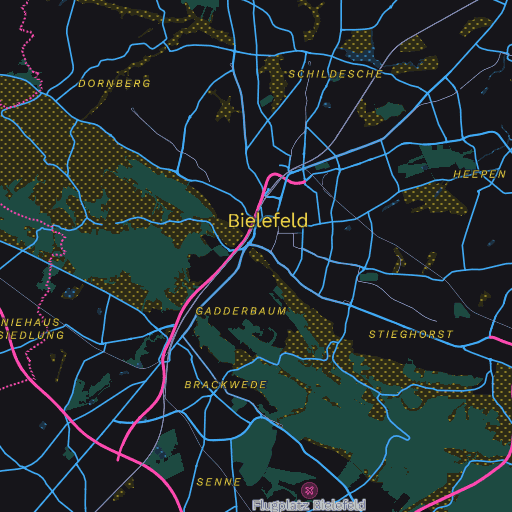
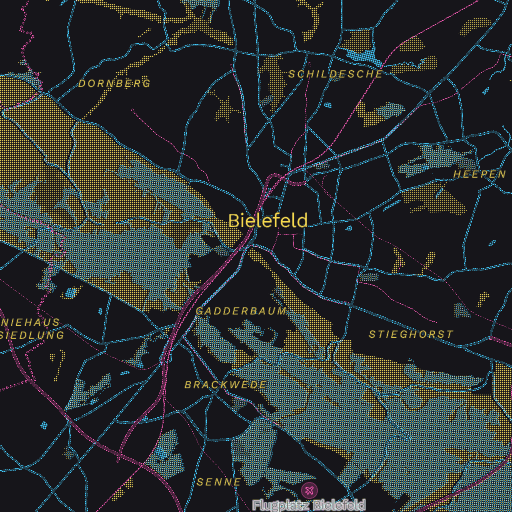
Siebdruck: echtes CMYK-Druckraster als Pixel-Nachbearbeitung, Straßen aus feinen Punkten
- halftone(): Farbzerlegung nach den echten Druckfarben, Raster je Platte unter 0°/15°/45°/75° (Rosetten),
  flächentreue Punkte, Passer-Versatz 1 px, Tinte multipliziert bzw. Leuchtfarben auf Schwarz (mode = "light")
- Volltöne (Straßen, Wege, Bahn) im feinen Raster aus getrennten Punkten
- Siebdruck/Nacht: flache Farben als Mischungen der Druckfarben, Beschriftung scharf obenauf

diff --git a/make-tiles.py b/make-tiles.py
@@ -1113,9 +1113,10 @@ def halftone(img, ox, oy, k, cfg, z=17):
     in Druckfarben zerlegt, jede Farbe als eigenes Punktraster unter ihrem Winkel (Gelb 0°, Cyan 15°, Schwarz 45°,
     Magenta 75° wie im Offsetdruck, daher Rosetten), Punktgröße nach Farbmenge, volle Fläche ab ~100 % (Straßen in
     kräftigen Farben bleiben durchgehend), Platten je um offset Weltpixel versetzt (Passer), übereinander gedruckt.
-    mode = "cmyk": Tinte auf Papier (paper), multipliziert. mode = "light": Leuchtfarben auf schwarzem Karton, die
-    Platten sind Rot/Grün/Blau-Anteile und hellen auf (screen). Raster weltfest (ox/oy wie watercolor()), nahtlos;
-    Rasterweite pitch (Weltpixel bei z17), je Zoomstufe darunter pitch_step feiner."""
+    mode = "cmyk": Tinte auf Papier (paper), multipliziert. mode = "light": drei Leuchtfarben auf schwarzem Karton,
+    hellen auf (screen). inks = { c, m, y[, k] } ersetzt die Druckfarben. Raster weltfest (ox/oy wie watercolor()), nahtlos;
+    Rasterweite pitch (Weltpixel bei z17), je Zoomstufe darunter pitch_step feiner. Volltöne (eine Platte > fine_from)
+    im feinen Raster (fine × pitch, Farbmenge höchstens fine_amount), damit auch Straßen aus Punkten bestehen."""
     import numpy as np
     from scipy import ndimage
     h, w, _ = img.shape
@@ -1125,28 +1126,42 @@ def halftone(img, ox, oy, k, cfg, z=17):
     pitch = max(2, cfg.get("pitch", 6) + cfg.get("pitch_step", 1) * ((z or 17) - 17))
     light = cfg.get("mode", "cmyk") == "light"
     paper = hexc(cfg.get("paper", "#000000" if light else "#ffffff"))
-    if light:  # Lichtanteile über schwarzem Grund
-        plates = {"r": img[..., 0], "g": img[..., 1], "b": img[..., 2]}
-    else:      # Tinte = was dem Papier fehlt; Schwarz aus dem gemeinsamen Anteil (Unterfarbenentfernung)
-        cmy = np.clip(1 - img / paper, 0, 1)
-        kk = cmy.min(-1) * cfg.get("black", 1)
-        cmy = (cmy - kk[..., None]) / np.maximum(1 - kk[..., None], 1e-3)
-        plates = {"c": cmy[..., 0], "m": cmy[..., 1], "y": cmy[..., 2], "k": kk}
-    inks = {"c": "#00a3e0", "m": "#ff3fa4", "y": "#ffe500", "k": "#231f20",
-            "r": "#ff3b5c", "g": "#3dff8a", "b": "#3f8cff", **cfg.get("inks", {})}
-    angle = {"y": 0, "c": 15, "k": 45, "m": 75, "b": 0, "r": 15, "g": 75, **cfg.get("angles", {})}
-    off = {"c": (1, 0), "m": (0, 1), "y": (-1, 0), "k": (0, 0), "r": (1, 0), "g": (0, 1), "b": (-1, 0)}
-    off = {c: [v * cfg.get("offset", 1) for v in o] for c, o in off.items()}
+    names = ("c", "m", "y")
+    inks = {**({"c": "#2ec8ff", "m": "#ff48b0", "y": "#ffe14d"} if light else
+               {"c": "#00a3e0", "m": "#ff3fa4", "y": "#ffe500", "k": "#231f20"}), **cfg.get("inks", {})}
+    ink = {c: hexc(v) for c, v in inks.items()}
+    # Farbmengen je Platte aus den echten Druckfarben (3×3-Gleichung je Pixel): Tinte in Dichten (−ln, Papier = 0),
+    # Leuchtfarbe linear über Schwarz; so wird eine Fläche in Druckfarbe nur von ihrer eigenen Platte gedruckt
+    if light:
+        M, rhs = np.stack([ink[c] - paper for c in names], 1), img - paper
+    else:
+        dens = lambda v: -np.log(np.clip(v / paper, 1e-3, 1))
+        M, rhs = np.stack([dens(ink[c]) for c in names], 1), dens(img)
+    amt = np.clip(rhs @ np.linalg.inv(M).T, 0, 1.2)
+    plates = {c: amt[..., n] for n, c in enumerate(names)}
+    if not light:  # Schwarz übernimmt den gemeinsamen Anteil (Unterfarbenentfernung)
+        kk = amt.min(-1) * cfg.get("black", 1)
+        plates = {c: v - kk for c, v in plates.items()} | {"k": kk}
+    angle = {"y": 0, "c": 15, "k": 45, "m": 75, **cfg.get("angles", {})}
+    o = cfg.get("offset", 1)
+    off = {"c": (o, 0), "m": (0, o), "y": (-o, 0), "k": (0, 0)}
+    # Volltöne (Straßen, Wege, Bahn: eine Platte fast voll) im feinen Raster aus kleinen, getrennten Punkten (Nutzerwunsch
+    # 2026-11-26), sonst wären sie durchgehende Flächen; hellere Flächen im groben Raster
+    fine = (amt.max(-1) > cfg.get("fine_from", .8)).astype(float)
+    fine = ndimage.gaussian_filter(fine, .5 * k) > .5   # Kanten der Linien glätten
     out = np.broadcast_to(paper, img.shape).copy()
     for c, val in plates.items():
         val = ndimage.shift(val, (off[c][1] * k, off[c][0] * k), order=1, mode="nearest")   # Passer-Versatz
+        fn = ndimage.shift(fine.astype(float), (off[c][1] * k, off[c][0] * k), order=0, mode="nearest") > .5
+        val = np.where(fn, np.minimum(val, cfg.get("fine_amount", .7)), val)   # feine Punkte bleiben getrennt
         a = np.radians(angle[c])
-        u, v = (gx * np.cos(a) + gy * np.sin(a)) / pitch, (-gx * np.sin(a) + gy * np.cos(a)) / pitch
+        pt = np.where(fn, pitch * cfg.get("fine", .45), pitch)    # Rasterweite je Pixel
+        u, v = (gx * np.cos(a) + gy * np.sin(a)) / pt, (-gx * np.sin(a) + gy * np.cos(a)) / pt
         d = np.hypot(u - np.round(u), v - np.round(v))            # Abstand zum nächsten Rasterpunkt, Zellen
-        r = 0.75 * np.sqrt(np.clip(val * cfg.get("gain", 1.1), 0, 1))   # Punktradius; ab 0,71 ist die Zelle voll
-        dot = np.clip((r - d) * pitch * k + .5, 0, 1)[..., None]   # weiche Kante, 1 Bildpixel
-        ink = hexc(inks[c])
-        out = 1 - (1 - out) * (1 - dot * ink) if light else out * (1 - dot * (1 - ink))
+        r = np.sqrt(np.clip(val * cfg.get("gain", 1.1), 0, 1.6) / np.pi)   # flächentreu: Punktfläche = Farbmenge; ab ~1,6 voll
+        px = pt * k                                                # Zelle in Bildpixeln
+        dot = (np.clip((r - d) * px + .5, 0, 1) * np.clip(r * px * 2 - .5, 0, 1))[..., None]   # Kante 1 px, kein Staub
+        out = 1 - (1 - out) * (1 - dot * ink[c]) if light else out * (1 - dot * (1 - ink[c] / paper))
     return out
 
 

diff --git a/CLAUDE.md b/CLAUDE.md
@@ -168,7 +168,7 @@ There are no tests. To check a rendering change, re-render and look at a tile ne
   - **Drafts 2026-11-26** (user picked them from a list of gaps in the standard set; all standard, names are working titles; `build_site()` takes every style whose family is not in `exclude`, so they go on the site with the next `--site` run):
     - `schwarzplan` / `schwarzplan-dark` ("Weißplan"): figure-ground plan, black buildings on white, all road/POI layers hidden, only place and street names in grey, signal-red marker. OMT buildings start at z13, so residential/commercial/industrial landuse is drawn dark grey below and fades out by z13.
     - `blaupause` (dark) / `lichtpause` (light, diazo copy): technical drawing. Hollow roads: fills = background, then the light `*-casing` globs (order matters, `highway-*` also matches casings), buildings via `outlines`, wood/meadow/cemetery patterns, `water_lines`, no shields. `lichtpause` was made from `blaupause` by colour substitution; keep both in sync.
-    - `siebdruck` / `siebdruck-nacht`: three-ink poster (fluorescent pink, blue, yellow; green = pre-mixed overprint, MapLibre has no multiply), water/grass as `raster` dot screens (`blauraster`/`gelbraster` patterns), buildings with `fill-translate` [2, 1.5] as misregistration, no casings. Not called "Riso" (RISO Kagaku is a brand).
+    - `siebdruck` / `siebdruck-nacht` (reworked 2026-11-26 after the user sent CMYK halftone references): flat colours only; style key `halftone = { mode, pitch, pitch_step, offset, paper, inks, angles, black, gain, fine, fine_from, fine_amount }` → `halftone()` (same pipeline as `watercolor`: `post_of()`, `wc_tile()` with neighbours, labels crisp on top via `over()`). Separation solves a 3×3 system per pixel against the real ink colours (densities −ln for `cmyk` on paper, linear over black for `mode = "light"`), so a fill in an ink colour prints only on its own plate; black takes the common part. Screens at 0°/15°/45°/75° (rosettes), area-true dots (r = √(amount/π)), plates offset 1 px (misregistration), multiplied (cmyk) or screened (light). Solid tones (any plate > `fine_from`, i.e. roads, paths, rail) use a finer screen (`fine` × pitch, amount capped at `fine_amount`) so roads are made of small dots too (user request). Fill colours in the TOMLs are ink mixes (computed, they look odd as hex but give the intended dot amounts). Pitch 6 world px at z17, 1 px finer per zoom below. ~95 s per style. Not called "Riso" (RISO Kagaku is a brand).
     - `aquarell` / `aquarell-nacht` (second attempt, user: "deutlich mehr an Stamen Watercolor"): plain flat fills in a Stamen-like palette (ochre land, strong blue, yellow-green, light roads without casings); the look comes from the style key `watercolor = { warp, warp_scale, soft, edge_width, edge, wash, wash_scale, grain, paper }` → `watercolor()` pixel post-processing: domain warp (ragged edges), slight blur, pigment density A = −ln(brightness) raised at area edges (pigment pooling), large-cloud wash, grain and paper; all noise via module-level `vnoise()` at world coordinates. `wc_tile()` stitches the 3×3 neighbours (cached in `parent()`) and works with a quarter-tile margin, so tiles are seamless. Labels: `split_labels(style, shift=False)`, second tileserver pass, `over()` composites them crisp on top, then pngquant (`colors = 64`). Coarse noise is computed on every 4th pixel and upscaled (6 min → 2:20 per style); tiles ~40 MB per style vs ~24. `readme_previews()` uses `wc_static()` (single static image, no neighbours). `post_of(meta)` picks the post-processing (`watercolor` or `halftone`).
     - `marke` / `marke-dark`: output of `tools/gen_marke.py` for #2a6fdb. The generator derives everything in OKLCH from the accent (neutral surfaces tinted with half its chroma up to 0.01, majors in the accent, water/green fixed hues, POI text shifted in lightness to ≥ 4.5:1, marker = the unchanged brand colour, chroma clipped into sRGB). Per customer: generate, then render with `--style styles/<name>.toml`.
   - **Nerd** (editor-theme palettes): `dayfox`/`nightfox`, `catppuccin-latte`/`-mocha`, `dracula-light` ("Alucard", the official Dracula light palette) / `dracula`, `solarized-light`/`-dark`, `gruvbox-light`/`-dark`, `everforest-light`/`-dark`, `one-light`/`-dark` (Atom One) (all MIT), and `tokyonight-day`/`-night` (Apache-2.0).
